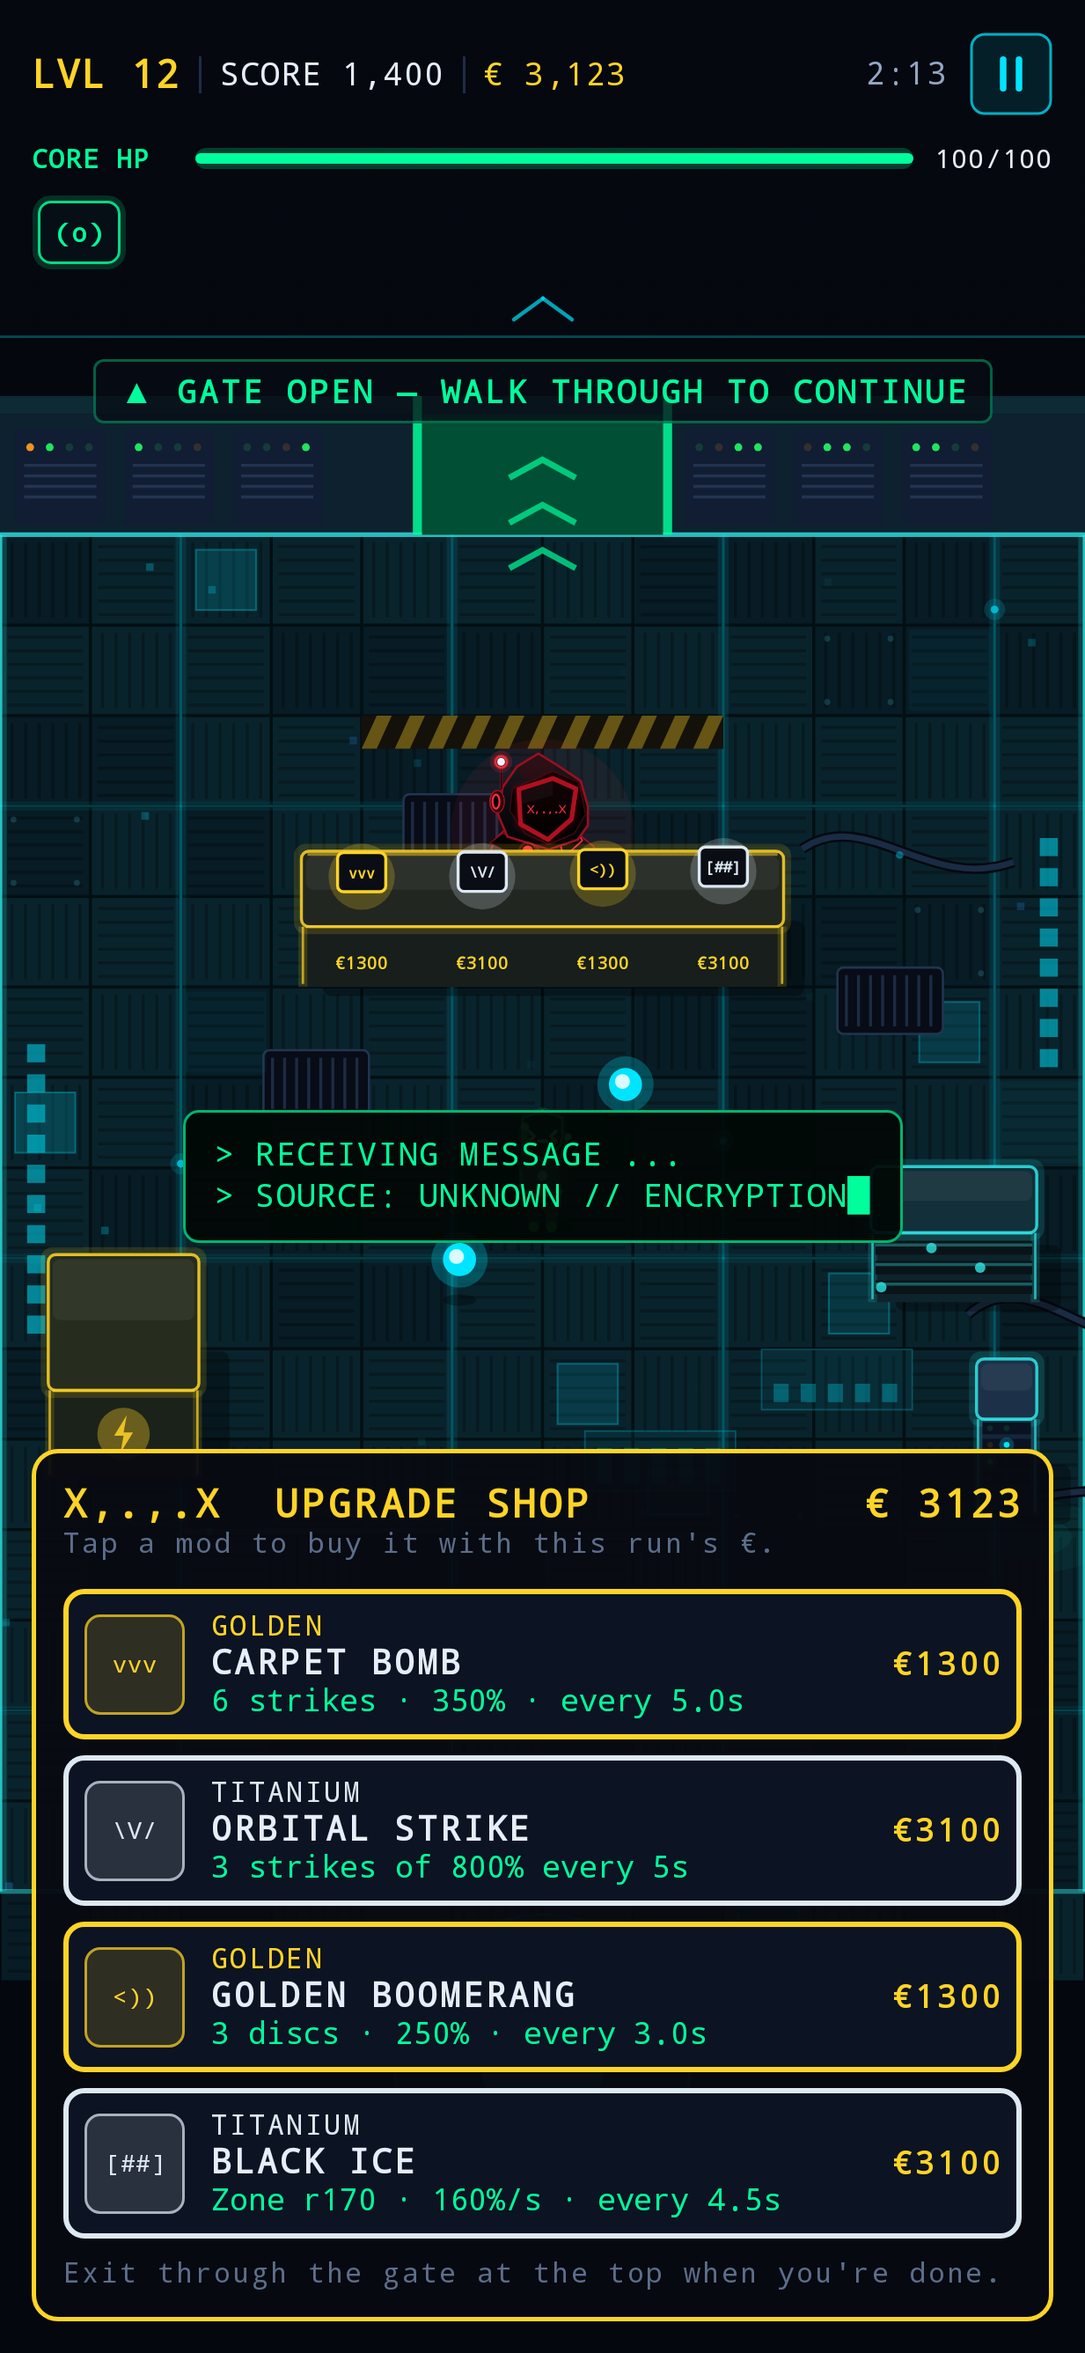
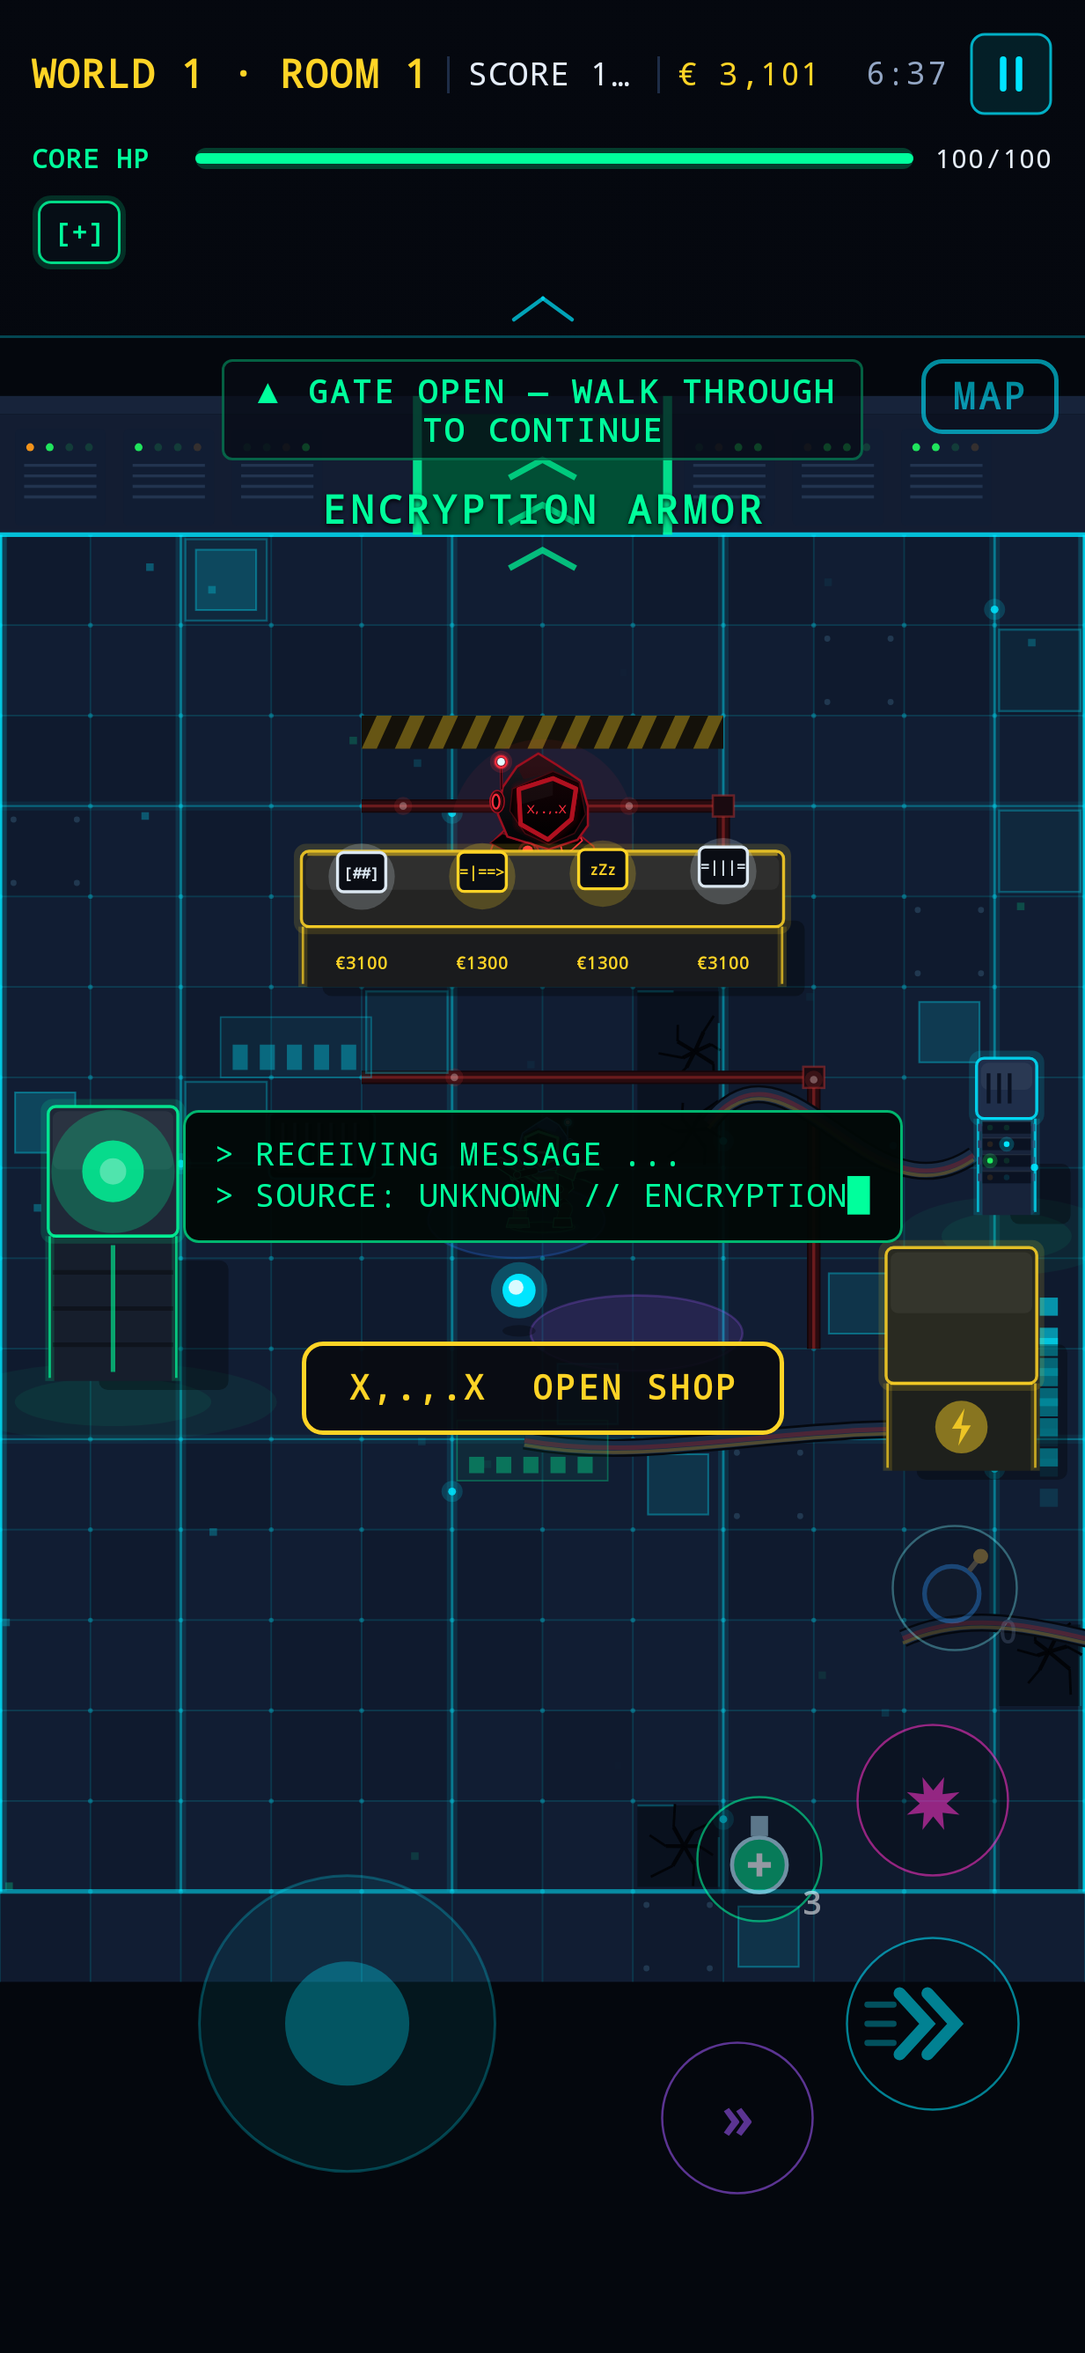
0.25.8: shop is a compact centred window (OPEN SHOP at the counter, ✕ / back / Esc / walking away closes it), scales to portrait, landscape and PC
Claude-Session: https://claude.ai/code/session_01J4fYSi9rfQR62SLnfyrDCN

diff --git a/app/src/main/java/com/cyberoperative/game/ui/game/ShopUi.kt b/app/src/main/java/com/cyberoperative/game/ui/game/ShopUi.kt
@@ -8,7 +8,10 @@ import androidx.compose.foundation.layout.Box
 import androidx.compose.foundation.layout.Column
 import androidx.compose.foundation.layout.Row
 import androidx.compose.foundation.layout.Spacer
+import androidx.compose.foundation.layout.fillMaxSize
 import androidx.compose.foundation.layout.fillMaxWidth
+import androidx.compose.foundation.rememberScrollState
+import androidx.compose.foundation.verticalScroll
 import androidx.compose.foundation.layout.height
 import androidx.compose.foundation.layout.padding
 import androidx.compose.foundation.layout.size
@@ -89,72 +92,109 @@ fun ShopMessage(serial: Int, right: Boolean, modifier: Modifier = Modifier, hidd
     }
 }
 
-/** Shown while the operative stands at the counter: buy GOLDEN / TITANIUM mods with run €. */
+/**
+ * The shop window (owner, 2026-10-11: "so large, players cannot close it"): a compact square in
+ * the middle of the screen, at most 90% of the width and 80% of the height (capped at 380dp), so it
+ * fits phones in portrait and landscape and the PC window alike. The list scrolls inside it and
+ * the X at the top right closes it.
+ */
 @OptIn(androidx.compose.foundation.ExperimentalFoundationApi::class)
 @Composable
-fun ShopPanel(items: List<ShopItem>, euros: Int, onBuy: (Int) -> Unit, modifier: Modifier = Modifier, onHold: (Int) -> Unit = {}, slotsFull: (Int) -> Boolean = { false }) {
-    Column(
-        modifier
-            .background(Color(0xF0080A10), RoundedCornerShape(10.dp))
-            .border(1.5.dp, Palette.Gold, RoundedCornerShape(10.dp))
-            .padding(12.dp)
-    ) {
-        Row(verticalAlignment = Alignment.CenterVertically) {
-            Text("X,.,.X  UPGRADE SHOP", color = Palette.Gold, style = MaterialTheme.typography.titleMedium, modifier = Modifier.weight(1f))
-            Text("€ $euros", color = Palette.Euro, style = MaterialTheme.typography.titleMedium)
-        }
-        Text("${com.cyberoperative.game.ui.common.tapWord} a mod to buy it with this run's € · hold for details.", color = Palette.TextMuted, style = MaterialTheme.typography.labelSmall)
-        Spacer(Modifier.height(8.dp))
-        if (items.isEmpty()) Text("Sold out. Come back another time.", color = Palette.TextSecondary, style = MaterialTheme.typography.bodySmall)
-        for ((i, it) in items.withIndex()) {
-            val col = Color(it.def.rarity.color)
-            val affordable = euros >= it.price
-            val shape = RoundedCornerShape(8.dp)
-            Row(
-                Modifier
-                    .fillMaxWidth()
-                    .padding(vertical = 3.dp)
-                    .background(Palette.Surface, shape)
-                    .border(if (it.sold) 1.dp else 2.dp, if (it.sold) Palette.Divider else col, shape)
-                    .combinedClickable(enabled = !it.sold, onLongClick = { onHold(i) }, onLongClickLabel = "Details") { if (affordable) onBuy(i) }
-                    .padding(8.dp),
-                verticalAlignment = Alignment.CenterVertically
-            ) {
+fun ShopPanel(
+    items: List<ShopItem>, euros: Int, onBuy: (Int) -> Unit, onClose: () -> Unit,
+    modifier: Modifier = Modifier, onHold: (Int) -> Unit = {}, slotsFull: (Int) -> Boolean = { false }
+) {
+    androidx.compose.foundation.layout.BoxWithConstraints(modifier.fillMaxSize(), contentAlignment = Alignment.Center) {
+        val side = minOf(maxWidth * 0.9f, maxHeight * 0.8f, 380.dp)
+        Column(
+            Modifier
+                .size(side)
+                .background(Color(0xF0080A10), RoundedCornerShape(10.dp))
+                .border(1.5.dp, Palette.Gold, RoundedCornerShape(10.dp))
+                // Swallow taps so they don't reach the arena underneath.
+                .clickable(interactionSource = remember { androidx.compose.foundation.interaction.MutableInteractionSource() }, indication = null) {}
+                .padding(10.dp)
+        ) {
+            Row(verticalAlignment = Alignment.CenterVertically) {
+                Text("X,.,.X  SHOP", color = Palette.Gold, style = MaterialTheme.typography.titleSmall, modifier = Modifier.weight(1f), maxLines = 1)
+                Text("€ $euros", color = Palette.Euro, style = MaterialTheme.typography.titleSmall)
+                Spacer(Modifier.width(8.dp))
                 Box(
                     Modifier
-                        .size(38.dp)
-                        .background(col.copy(alpha = 0.14f), RoundedCornerShape(6.dp))
-                        .border(1.dp, col.copy(alpha = 0.7f), RoundedCornerShape(6.dp)),
+                        .size(30.dp)
+                        .background(Palette.Surface, RoundedCornerShape(6.dp))
+                        .border(1.dp, Palette.TextSecondary, RoundedCornerShape(6.dp))
+                        .clickable { onClose() },
                     contentAlignment = Alignment.Center
-                ) { Text(it.def.glyph, color = col, fontSize = 9.sp, textAlign = TextAlign.Center, maxLines = 1) }
-                Spacer(Modifier.width(10.dp))
-                Column(Modifier.weight(1f)) {
-                    Text(
-                        it.def.rarity.label + (if (it.nextLevel > 1) " · LV ${it.nextLevel}" else "") + if (!it.sold && slotsFull(i)) " · WEAPON · SWAP" else "",
-                        color = col, style = MaterialTheme.typography.labelSmall
-                    )
-                    Text(it.def.name, color = if (it.sold) Palette.TextMuted else Palette.TextPrimary, style = MaterialTheme.typography.titleSmall)
-                    Text(it.def.effectAt(it.nextLevel), color = Palette.Green, style = MaterialTheme.typography.bodySmall, maxLines = 2)
+                ) { Text("✕", color = Palette.TextPrimary, style = MaterialTheme.typography.titleSmall) }
+            }
+            Text("${com.cyberoperative.game.ui.common.tapWord} to buy · hold for details", color = Palette.TextMuted, style = MaterialTheme.typography.labelSmall, maxLines = 1)
+            Spacer(Modifier.height(6.dp))
+            Column(Modifier.weight(1f).verticalScroll(rememberScrollState())) {
+                if (items.isEmpty()) Text("Sold out. Come back another time.", color = Palette.TextSecondary, style = MaterialTheme.typography.bodySmall)
+                for ((i, it) in items.withIndex()) {
+                    val col = Color(it.def.rarity.color)
+                    val affordable = euros >= it.price
+                    val shape = RoundedCornerShape(8.dp)
+                    Row(
+                        Modifier
+                            .fillMaxWidth()
+                            .padding(vertical = 3.dp)
+                            .background(Palette.Surface, shape)
+                            .border(if (it.sold) 1.dp else 2.dp, if (it.sold) Palette.Divider else col, shape)
+                            .combinedClickable(enabled = !it.sold, onLongClick = { onHold(i) }, onLongClickLabel = "Details") { if (affordable) onBuy(i) }
+                            .padding(6.dp),
+                        verticalAlignment = Alignment.CenterVertically
+                    ) {
+                        Box(
+                            Modifier
+                                .size(32.dp)
+                                .background(col.copy(alpha = 0.14f), RoundedCornerShape(6.dp))
+                                .border(1.dp, col.copy(alpha = 0.7f), RoundedCornerShape(6.dp)),
+                            contentAlignment = Alignment.Center
+                        ) { Text(it.def.glyph, color = col, fontSize = 8.sp, textAlign = TextAlign.Center, maxLines = 1) }
+                        Spacer(Modifier.width(8.dp))
+                        Column(Modifier.weight(1f)) {
+                            Text(
+                                it.def.rarity.label + (if (it.nextLevel > 1) " · LV ${it.nextLevel}" else "") + if (!it.sold && slotsFull(i)) " · SWAP" else "",
+                                color = col, style = MaterialTheme.typography.labelSmall, maxLines = 1
+                            )
+                            Text(it.def.name, color = if (it.sold) Palette.TextMuted else Palette.TextPrimary, style = MaterialTheme.typography.labelLarge, maxLines = 1)
+                            Text(it.def.effectAt(it.nextLevel), color = Palette.Green, style = MaterialTheme.typography.labelSmall, maxLines = 2)
+                        }
+                        Spacer(Modifier.width(6.dp))
+                        Text(
+                            when {
+                                it.sold -> "SOLD"
+                                affordable -> "€${it.price}"
+                                else -> "€${it.price}\nNEED €${it.price - euros}"
+                            },
+                            color = when {
+                                it.sold -> Palette.TextMuted
+                                affordable -> Palette.Euro
+                                else -> Palette.Red
+                            },
+                            style = MaterialTheme.typography.labelMedium, textAlign = TextAlign.End
+                        )
+                    }
                 }
-                Spacer(Modifier.width(8.dp))
-                Text(
-                    when {
-                        it.sold -> "SOLD"
-                        affordable -> "€${it.price}"
-                        else -> "€${it.price}\nNEED €${it.price - euros}"
-                    },
-                    color = when {
-                        it.sold -> Palette.TextMuted
-                        affordable -> Palette.Euro
-                        else -> Palette.Red
-                    },
-                    style = MaterialTheme.typography.labelMedium, textAlign = TextAlign.End
-                )
             }
         }
-        Spacer(Modifier.height(4.dp))
-        Text("Exit through the gate at the top when you're done.", color = Palette.TextMuted, style = MaterialTheme.typography.labelSmall)
     }
+}
+
+/** At the counter with the shop closed: the button that opens it. */
+@Composable
+fun OpenShopButton(onOpen: () -> Unit, modifier: Modifier = Modifier) {
+    Text(
+        "X,.,.X  OPEN SHOP",
+        color = Palette.Gold, style = MaterialTheme.typography.titleSmall,
+        modifier = modifier
+            .background(Color(0xE6080A10), RoundedCornerShape(8.dp))
+            .border(1.5.dp, Palette.Gold, RoundedCornerShape(8.dp))
+            .clickable { onOpen() }
+            .padding(horizontal = 18.dp, vertical = 10.dp)
+    )
 }
 
 /** Shown when the player walks into the top gate while a shop is on offer. */

diff --git a/app/src/main/java/com/cyberoperative/game/ui/game/GameScreen.kt b/app/src/main/java/com/cyberoperative/game/ui/game/GameScreen.kt
@@ -50,6 +50,7 @@ import androidx.compose.ui.input.pointer.pointerInput
 import com.cyberoperative.game.platform.GameKeys
 import com.cyberoperative.game.platform.platformGestureExclusion
 import androidx.compose.ui.layout.onSizeChanged
+import androidx.compose.ui.zIndex
 import androidx.compose.ui.platform.LocalDensity
 import androidx.compose.ui.text.style.TextAlign
 import androidx.compose.ui.unit.dp
@@ -168,6 +169,10 @@ fun GameScreen(
     var hudCollapsed by rememberSaveable { mutableStateOf(false) }
     var hudHeightPx by remember { mutableIntStateOf(0) }
     var shopHeld by remember { mutableStateOf<Int?>(null) }
+    /** The shop window is open (opened with OPEN SHOP at the counter, closed with X / back / walking off). */
+    var shopOpen by remember { mutableStateOf(false) }
+    // Back / Esc closes the shop first (registered after the pause handler, so it wins).
+    BackHandler(enabled = shopOpen) { shopOpen = false }
     var shopSwap by remember { mutableStateOf<Int?>(null) }
 
 
@@ -347,16 +352,23 @@ fun GameScreen(
                 Banner(hud, Modifier.padding(top = 6.dp))
             }
         }
-        // Upgrade shop: buy panel at the counter, and the terminal message when a shop appears.
-        if (hud.inShop && hud.atShopCounter) {
+        // Upgrade shop: at the counter an OPEN SHOP button; the shop is a small window in the
+        // middle of the screen with an X to close it (also back / Esc, or walking away).
+        val atCounter = hud.inShop && hud.atShopCounter
+        LaunchedEffect(atCounter) { if (!atCounter) shopOpen = false }
+        if (atCounter && !shopOpen) {
+            OpenShopButton(
+                onOpen = { shopOpen = true },
+                modifier = Modifier.align(Alignment.Center).padding(top = 160.dp)
+            )
+        }
+        if (atCounter && shopOpen) {
             ShopPanel(
                 hud.shopItems, hud.euros,
                 onBuy = { i -> if (session.shopNeedsSlot(i)) shopSwap = i else session.buyShopItem(i) },
-                modifier = Modifier
-                    .align(Alignment.BottomCenter)
-                    .fillMaxWidth()
-                    .navigationBarsPadding()
-                    .padding(horizontal = 12.dp, vertical = 12.dp),
+                onClose = { shopOpen = false },
+                // Above every other overlay (terminal message, pickup line, hints).
+                modifier = Modifier.zIndex(10f).padding(top = hudHeightDp),
                 onHold = { shopHeld = it },
                 slotsFull = { session.shopNeedsSlot(it) }
             )
@@ -441,7 +453,7 @@ fun GameScreen(
         }
         BossDossierCard(hud, Modifier.align(Alignment.Center).padding(horizontal = 12.dp))
         VictoryCard(hud, onSkip = { session.skipVictory() })
-        ShopMessage(hud.shopMessageSerial, hud.shopGateRight, Modifier.align(Alignment.Center).padding(horizontal = 20.dp), hidden = hud.skipShopPrompt)
+        ShopMessage(hud.shopMessageSerial, hud.shopGateRight, Modifier.align(Alignment.Center).padding(horizontal = 20.dp), hidden = hud.skipShopPrompt || shopOpen)
         val result = session.result
         if (hud.phase == Phase.DEAD && result != null) {
             GameOverOverlay(

diff --git a/app/src/test/java/com/cyberoperative/game/ScreenshotPreviews.kt b/app/src/test/java/com/cyberoperative/game/ScreenshotPreviews.kt
@@ -763,6 +763,38 @@ class ScreenshotPreviews {
         }
     }
 
+    private fun toShopCounter(s: GameSession) {
+        val g = s.engine
+        g.debugJumpToLevel(12)
+        clearToPortal(g)
+        g.offerShop()
+        var guard = 0
+        while (!g.inShop && guard++ < 1500) { g.setInput((g.shopGateX - g.px) / 200f, (g.shopGateY - g.py) / 200f); g.update(1f / 60f) }
+        g.debugGrantEuros(3000)
+        guard = 0
+        while (!g.atShopCounter && guard++ < 1200) { g.setInput((g.arena.width / 2f - g.px) / 100f, -1f); g.update(1f / 60f) }
+        g.setInput(0f, 0f)
+        repeat(30) { g.update(1f / 60f) }
+    }
+
+    private fun openShop() {
+        compose.onAllNodesWithText("X,.,.X  OPEN SHOP")[0].performClick()
+        compose.mainClock.advanceTimeBy(200)
+    }
+
+    /** The shop as a small window in the middle with an X (owner, 2026-10-11). */
+    @Test fun shopWindowPortrait() {
+        assumeTrue(enabled)
+        gameplay("shop_window_portrait", 0f, interact = { openShop() }) { s -> toShopCounter(s) }
+    }
+
+    @Test @Config(qualifiers = "w891dp-h411dp-xxhdpi") fun shopWindowLandscape() {
+        assumeTrue(enabled)
+        pcMode(landscape = true) {
+            gameplay("shop_window_landscape", 0f, interact = { openShop() }) { s -> toShopCounter(s) }
+        }
+    }
+
     @Test fun shopRoom() {
         assumeTrue(enabled)
         gameplay("upgrade_shop", 0f) { s ->

diff --git a/README.md b/README.md
@@ -16,7 +16,7 @@ Play **co-op** with a friend (friend codes, invites, live two-player runs; see `
 
 ## Project status
 
-`0.25.7` — room slide follows the door direction; `0.25.6` ALL COLOUR SKINS pack ◇1400; `0.25.5` skins renamed by colour; `0.25.4` fixed the crash on START; crash reporter; PURPLE/GLITCHED campaign skins, GOLD and NEON (◇1000) skins, PROXY SHOT removed; boss loot sprays out; per-player co-op loot; World-map CAMPAIGN (15 worlds); Steam build (PC + Steam Deck, landscape) added in `desktop/`; Boss Expansion Vol. 1 under way; 0.16.0 balance pass (pooled mastery, bigger Packet Flood) (see `DEVELOPMENT_STATE.md` and `docs/BOSS_EXPANSION_LOG.md`).
+`0.25.8` — compact shop window with OPEN SHOP and ✕; `0.25.7` room slide follows the door direction; `0.25.6` ALL COLOUR SKINS pack ◇1400; `0.25.5` skins renamed by colour; `0.25.4` fixed the crash on START; crash reporter; PURPLE/GLITCHED campaign skins, GOLD and NEON (◇1000) skins, PROXY SHOT removed; boss loot sprays out; per-player co-op loot; World-map CAMPAIGN (15 worlds); Steam build (PC + Steam Deck, landscape) added in `desktop/`; Boss Expansion Vol. 1 under way; 0.16.0 balance pass (pooled mastery, bigger Packet Flood) (see `DEVELOPMENT_STATE.md` and `docs/BOSS_EXPANSION_LOG.md`).
 
 | | |
 |---|---|

diff --git a/CHANGELOG.md b/CHANGELOG.md
@@ -1,5 +1,16 @@
 # Changelog
 
+## 0.25.8 (versionCode 84) — 2026-10-11 · Shop window you can close
+### Changed (owner: "the shop screen is so large, players cannot close it")
+- At the vendor's counter an **OPEN SHOP** button appears. The shop no longer pops open by itself.
+- The shop is now a **small square window in the middle of the screen**.
+  - It is at most 90% of the width and 80% of the height, capped at 380dp, so it fits Android portrait, Android landscape and the Steam window.
+  - The item list scrolls inside it.
+- **✕ at the top right** closes it. So do Back (Android), Esc (PC) and walking away from the counter. Back and Esc close the shop before pausing.
+- The shop's "RECEIVING MESSAGE…" text and the pickup line no longer draw over the open window.
+### Technical
+- New renders: `shop_window_portrait`, `shop_window_landscape`. `upgrade_shop` now shows the OPEN SHOP button.
+
 ## 0.25.7 (versionCode 83) — 2026-10-11 · Room slide follows your direction; hint and pickup text separated
 ### Changed (owner)
 - **The room-change slide follows the door you walk through** (it used to always slide the same way):

diff --git a/DEVELOPMENT_STATE.md b/DEVELOPMENT_STATE.md
@@ -6,7 +6,7 @@ _Read this first in every new session, then README, GAME_DESIGN, BACKLOG, CHANGE
 
 | | |
 |---|---|
-| Version | 0.25.7 (versionCode 83) |
+| Version | 0.25.8 (versionCode 84) |
 | Milestone | M1 vertical slice ✅ · M2 first boss & systems ✅ (pending device playtest) |
 | Last completed | 0.9.5 fullscreen HUD redesign (ui/game/GameHud.kt, buff chips in UpgradeBar.kt) |
 | Current task | Waiting on owner: body design (CO-094) and Power-Up Board picks (CO-090) |
